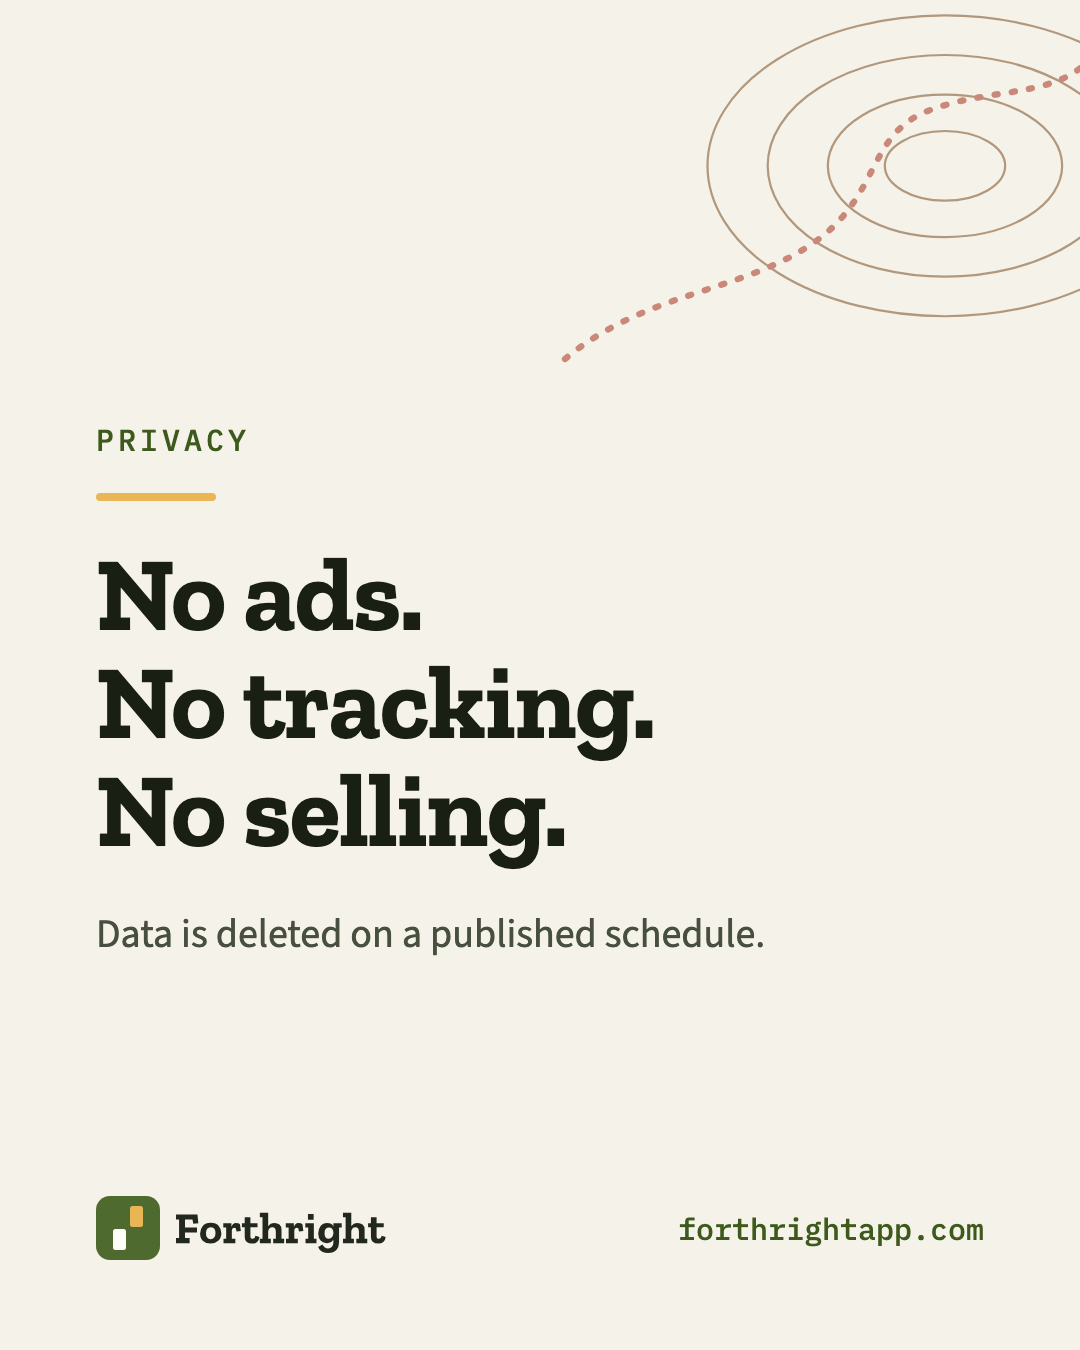
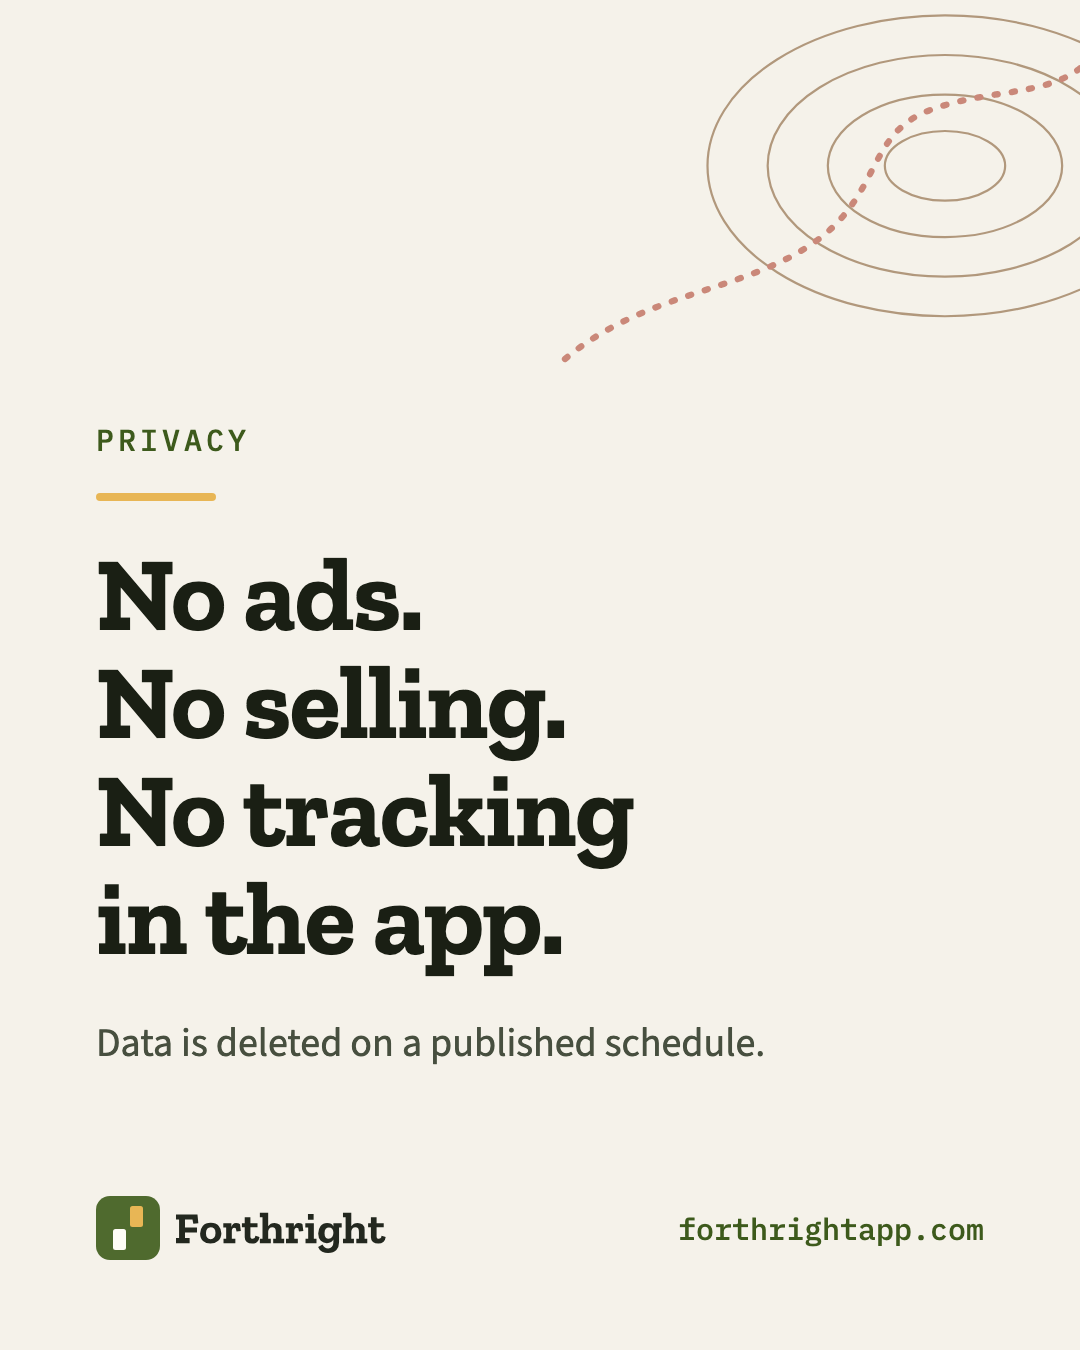
feat(forthright): Google Tag Manager on the public marketing pages only
GTM-NFFV3DQ5 loads on /, /features and /pilot for visitors who are not
signed in, on forthrightapp.com and www only (never staging, previews
or tests), and not when the browser sends Global Privacy Control. It
never runs in the app, on the privacy policy or on troop websites: the
app shell and public troop sites reload once without it if a visitor
arrives from a marketing page, since this is a single-page app.

The "no tracking" promises now say what is true: no ads, no selling,
nothing tracked in the app. The privacy policy names Google Tag
Manager and Google Analytics on the public pages and the Global Privacy
Control behavior. The Nov 12 Facebook post's image and caption match.

Changed region(s): [[0.0917, 0.4667, 0.7028, 0.8089]]

diff --git a/trailhead/app/src/lib/privacy.ts b/trailhead/app/src/lib/privacy.ts
@@ -53,9 +53,9 @@ export const PRIVACY_SECTIONS: PolicySection[] = [
       'Usage counts: how many AI drafts each person makes per day, so we can keep a daily limit.',
     ],
     notes: [
-      'We do not use analytics or advertising tools, and we do not set tracking cookies. So that Forthright works with a weak signal, such as at camp, your browser saves a copy of the troop information you can see, including Scout records and messages, on your device. Signing out removes that copy. Your browser also saves your sign-in, the email address you used for a sign-in link until you finish signing in, and a few preferences, such as whether you hid the Getting started list. On a shared computer, sign out when you are done.',
+      'Inside Forthright (everything after you sign in), on the privacy policy and on troop websites, we use no analytics or advertising tools and set no tracking cookies. Our public pages for visitors who are not signed in (the home page, the features page and the pilot sign-up page at forthrightapp.com) use Google Tag Manager to load Google Analytics, which sets cookies and receives your IP address and browser details to count visits and show how people find us. It is never loaded once you sign in, and opening the app from those pages starts a fresh page without it. So that Forthright works with a weak signal, such as at camp, your browser saves a copy of the troop information you can see, including Scout records and messages, on your device. Signing out removes that copy. Your browser also saves your sign-in, the email address you used for a sign-in link until you finish signing in, and a few preferences, such as whether you hid the Getting started list. On a shared computer, sign out when you are done.',
       'Google, which hosts Forthright, processes your IP address and basic browser information to deliver pages, keep you signed in and protect the service. Pages also load fonts from Google Fonts, which receives your IP address.',
-      'Because we do no tracking, we treat every visitor the same whether or not their browser sends a Do Not Track or Global Privacy Control signal.',
+      'If your browser sends a Global Privacy Control signal, our public pages do not load Google Tag Manager or Google Analytics. Nothing else depends on it, because nothing else is tracked.',
     ],
   },
   {
@@ -110,7 +110,7 @@ export const PRIVACY_SECTIONS: PolicySection[] = [
     id: 'providers',
     heading: 'Companies that help us run Forthright',
     items: [
-      "Google (Firebase and Google Cloud) hosts the app and stores its data in the United States, handles sign-in, stores photos and runs our server code. If you turn on notifications, Google Firebase Cloud Messaging delivers them and processes the device token and the notification text. If a troop connects its own domain, we send the domain name to Firebase Hosting so it can serve the site and issue a secure certificate; a troop's own domain shows only the public site and adds no tracking.",
+      "Google (Firebase and Google Cloud) hosts the app and stores its data in the United States, handles sign-in, stores photos and runs our server code. If you turn on notifications, Google Firebase Cloud Messaging delivers them and processes the device token and the notification text. If a troop connects its own domain, we send the domain name to Firebase Hosting so it can serve the site and issue a secure certificate; a troop's own domain shows only the public site and adds no tracking. On our public home, features and pilot pages only, Google Tag Manager and Google Analytics count visits for people who are not signed in (see Cookies above).",
       "Stripe processes card payments, if a troop turns them on, on the troop's own Stripe account. You enter your card details on Stripe's page, not in Forthright. Stripe receives your payment details and the email and billing details you give it, the amount, a general description such as \"Troop 101 activity fees\", and reference numbers that link the payment to the troop's records. It never receives your Scout's name. The money goes to the troop or its chartered organization, not to Forthright, and Forthright takes no fee. Stripe's privacy policy applies to what you give it.",
       "Resend delivers our emails. It receives the recipient's email address and the email itself: a Scout's first name, the merit badge, the troop name and links back to Forthright. It never receives birth dates, messages, photos or last names. For an emailed announcement, it receives the announcement, the sender's name and the troop name, and it is sent only to parents and other adults.",
       "Anthropic provides Claude, the AI behind \"Draft with AI\" and the website About us helper. To draft a plan we send a Scout's birth month and year, current rank, rank dates, merit badges already earned, the goal rank and target date, and the words typed into the request box. For the About us helper we send the troop's name, unit number and council and the leader's notes. In both, we try to remove the names of people on your troop roster from what you type, but nicknames or misspellings may get through, so please don't include names, health, family or school details. Health notes and Scout account information are never sent to Claude. Under Anthropic's commercial terms, this data is not used to train its models; Anthropic deletes it within 30 days unless it must keep it longer to enforce its usage policy or the law. AI drafts can be wrong: Forthright checks each plan against the advancement rules, and a person decides whether to use it.",

diff --git a/trailhead/app/src/lib/analytics.ts b/trailhead/app/src/lib/analytics.ts
@@ -1,0 +1,57 @@
+// Google Tag Manager, on the public marketing pages only (/, /features, /pilot) and only for visitors who are not
+// signed in. It never runs in the app, on the privacy policy or on troop websites: the app holds children's
+// information, and the privacy policy promises nothing in it is tracked. See the "Cookies" part of privacy.ts.
+import { useEffect } from 'react';
+import { useAuth } from './auth';
+
+export const GTM_ID = 'GTM-NFFV3DQ5';
+/** Only the live site: never staging, previews or tests, so they don't count as visits. */
+export const ANALYTICS_HOSTS = ['forthrightapp.com', 'www.forthrightapp.com'];
+const FLAG = '__forthrightTagManager';
+
+type Win = Window & { dataLayer?: unknown[]; [FLAG]?: boolean };
+
+/** Whether Tag Manager may load here and now. A Global Privacy Control signal turns it off. */
+export function mayLoad(o: { host: string; signedIn: boolean; gpc: boolean }): boolean {
+  return ANALYTICS_HOSTS.includes(o.host) && !o.signedIn && !o.gpc;
+}
+
+/** Add Google's Tag Manager snippet once. */
+export function loadTagManager(win: Win = window as Win, doc: Document = document): void {
+  if (win[FLAG]) {
+    return;
+  }
+  win[FLAG] = true;
+  win.dataLayer = win.dataLayer || [];
+  win.dataLayer.push({ 'gtm.start': Date.now(), event: 'gtm.js' });
+  const script = doc.createElement('script');
+  script.async = true;
+  script.src = `https://www.googletagmanager.com/gtm.js?id=${GTM_ID}`;
+  doc.head.appendChild(script);
+}
+
+/** True if Tag Manager is running in this page. */
+export function tagManagerLoaded(win: Win = window as Win): boolean {
+  return Boolean(win[FLAG]);
+}
+
+/** A marketing page: load Tag Manager for a signed-out visitor on the live site. */
+export function useMarketingAnalytics(): void {
+  const { user, ready } = useAuth();
+  useEffect(() => {
+    const gpc = Boolean((navigator as Navigator & { globalPrivacyControl?: boolean }).globalPrivacyControl);
+    if (ready && mayLoad({ host: window.location.hostname, signedIn: Boolean(user), gpc })) {
+      loadTagManager();
+    }
+  }, [ready, user]);
+}
+
+/** Any page that is not marketing: if Tag Manager came along from a marketing page (this is a single-page app),
+ * load the page afresh without it, so nothing in the app is ever tracked. */
+export function useNoAnalytics(): void {
+  useEffect(() => {
+    if (tagManagerLoaded()) {
+      window.location.reload();
+    }
+  }, []);
+}

diff --git a/trailhead/app/src/lib/__tests__/analytics.test.ts b/trailhead/app/src/lib/__tests__/analytics.test.ts
@@ -1,0 +1,38 @@
+import { describe, expect, it } from 'vitest';
+import { GTM_ID, loadTagManager, mayLoad, tagManagerLoaded } from '../analytics';
+
+describe('mayLoad', () => {
+  const visitor = { host: 'forthrightapp.com', signedIn: false, gpc: false };
+
+  it('loads only on the live site, for signed-out visitors without a privacy signal', () => {
+    expect(mayLoad(visitor)).toBe(true);
+    expect(mayLoad({ ...visitor, host: 'www.forthrightapp.com' })).toBe(true);
+  });
+
+  it('never loads for someone signed in, on staging or locally, or with Global Privacy Control', () => {
+    expect(mayLoad({ ...visitor, signedIn: true })).toBe(false);
+    expect(mayLoad({ ...visitor, host: 'scout-app-d2282.web.app' })).toBe(false);
+    expect(mayLoad({ ...visitor, host: 'localhost' })).toBe(false);
+    expect(mayLoad({ ...visitor, host: 'troop101.org' })).toBe(false); // a troop's own domain
+    expect(mayLoad({ ...visitor, gpc: true })).toBe(false);
+  });
+});
+
+describe('loadTagManager', () => {
+  it('adds the snippet once', () => {
+    const appended: { src: string; async: boolean }[] = [];
+    const doc = {
+      createElement: () => ({ src: '', async: false }),
+      head: { appendChild: (s: { src: string; async: boolean }) => appended.push(s) },
+    } as unknown as Document;
+    const win = {} as Window & { dataLayer?: unknown[] };
+    expect(tagManagerLoaded(win)).toBe(false);
+    loadTagManager(win, doc);
+    loadTagManager(win, doc);
+    expect(appended).toHaveLength(1);
+    expect(appended[0].src).toBe(`https://www.googletagmanager.com/gtm.js?id=${GTM_ID}`);
+    expect(appended[0].async).toBe(true);
+    expect(win.dataLayer?.[0]).toMatchObject({ event: 'gtm.js' });
+    expect(tagManagerLoaded(win)).toBe(true);
+  });
+});

diff --git a/trailhead/app/src/pages/PublicSite.tsx b/trailhead/app/src/pages/PublicSite.tsx
@@ -9,6 +9,7 @@ import { db } from '../lib/firebase';
 import { useDoc } from '../lib/hooks';
 import { paragraphs } from '../lib/siteTheme';
 import type { PublicSite as Site } from '../lib/types';
+import { useNoAnalytics } from '../lib/analytics';
 
 /** Sets the tab title and search description while the page is open. */
 function usePageMeta(title: string, description: string) {
@@ -69,6 +70,7 @@ function Missing() {
 /** A troop's public site. On Forthright's address the slug and page come from the URL; on a troop's own domain
  * the slug is passed in and the URL's first part is the page. */
 export function PublicSite({ slug: fixedSlug, page: fixedPage }: { slug?: string; page?: string }) {
+  useNoAnalytics(); // troop websites show Scouts' names and photos: never tracked
   const params = useParams();
   const slug = fixedSlug ?? params.slug ?? '';
   const page = fixedPage ?? params.page;

diff --git a/trailhead/app/src/pages/Landing.tsx b/trailhead/app/src/pages/Landing.tsx
@@ -5,11 +5,13 @@ import { PilotSection } from '../components/landing/PilotSection';
 import { Faq, LandingFooter, Safety, WhoItHelps } from '../components/landing/Sections';
 import { PRIVACY_EMAIL } from '../lib/privacy';
 import '../landing.css';
+import { useMarketingAnalytics } from '../lib/analytics';
 
 const TITLE = 'Forthright: advancement planning for Scouts BSA troops';
 
 /** The public page: at `/` for signed-out visitors, and at `/pilot` for everyone, opened at the pilot form. */
 export function Landing({ section }: { section?: string }) {
+  useMarketingAnalytics();
   const { hash, key } = useLocation();
   const target = section ?? hash.slice(1);
   // The router doesn't scroll to anchors itself. `key` changes on every click, so pressing "Join the pilot" again

diff --git a/trailhead/app/src/pages/Features.tsx b/trailhead/app/src/pages/Features.tsx
@@ -5,6 +5,7 @@ import { LandingFooter } from '../components/landing/Sections';
 import { SiteBar } from '../components/landing/SiteBar';
 import { PRIVACY_EMAIL } from '../lib/privacy';
 import '../landing.css';
+import { useMarketingAnalytics } from '../lib/analytics';
 
 const TITLE = 'Features: Forthright for Scouts BSA troops';
 const CANONICAL = 'https://forthrightapp.com/features';
@@ -52,6 +53,7 @@ function Category({ category }: { category: FeatureCategory }) {
 /** The public features page at `/features`: every feature, grouped by category. */
 export function Features() {
   usePageHead();
+  useMarketingAnalytics();
   return (
     <div className="landing">
       <header className="l-hero l-features-hero">

diff --git a/trailhead/app/src/components/Layout.tsx b/trailhead/app/src/components/Layout.tsx
@@ -9,6 +9,7 @@ import { NAV_TIPS } from '../lib/navTips';
 import { TroopProvider, useTroop } from '../lib/troop';
 import { useUnreadBadge } from '../lib/useUnreadBadge';
 import { ConsentGate } from './ConsentGate';
+import { useNoAnalytics } from '../lib/analytics';
 
 function TroopNav() {
   const { troopId, troop, has, isLeader, canManageBadges } = useTroop();
@@ -63,6 +64,7 @@ function TroopOutlet() {
 }
 
 function Shell({ troopNav, children }: { troopNav: boolean; children?: ReactNode }) {
+  useNoAnalytics(); // the app is never tracked; arriving from a marketing page reloads without Tag Manager
   const { user } = useAuth();
   const navigate = useNavigate();
   return (

diff --git a/trailhead/app/src/components/landing/featuresTroop.ts b/trailhead/app/src/components/landing/featuresTroop.ts
@@ -121,8 +121,8 @@ export const TROOP_CATEGORIES: FeatureCategory[] = [
         text: 'A parent acts for a younger Scout. Scouts 13 and older can have their own login.',
       },
       {
-        title: 'No ads, no tracking, no selling',
-        text: 'Forthright shows no ads, uses no tracking and never sells data. Data is deleted on a published schedule.',
+        title: 'No ads, no selling, nothing tracked in the app',
+        text: 'Forthright shows no ads and never sells data. Nothing you do after signing in is tracked, and data is deleted on a published schedule.',
       },
       {
         title: 'Works with a weak signal',

diff --git a/trailhead/app/src/components/landing/content.ts b/trailhead/app/src/components/landing/content.ts
@@ -37,8 +37,8 @@ export const SAFETY: { title: string; text: string }[] = [
     text: 'Photos of Scouts go on a troop website only with media consent. Location data is removed from every photo.',
   },
   {
-    title: 'No ads, no tracking, no selling',
-    text: 'Forthright shows no ads, has no tracking and never sells data. Data is deleted on a published schedule.',
+    title: 'No ads, no selling, nothing tracked in the app',
+    text: 'Forthright shows no ads and never sells data. Nothing you do after signing in is tracked. Data is deleted on a published schedule.',
   },
 ];
 

diff --git a/trailhead/marketing/facebook/posts/SCHEDULE.md b/trailhead/marketing/facebook/posts/SCHEDULE.md
@@ -15,7 +15,7 @@ page doesn't read as official.
 | Wed Nov 4   | `04-youth-protection.png` | Built around Youth Protection. Every conversation with a Scout includes an adult with current training plus a parent or second adult, and Scouts can't message each other. Scouts under 13 never get their own login; a parent acts for them. #ScoutsBSA                                                       |
 | Thu Nov 5   | `05-scoutbook.png`        | Forthright doesn't replace Scoutbook, which stays the official record. Your advancement chair gets a report of everything signed since the last one, grouped by Scout and ready to enter in Scoutbook. #Scoutmaster                                                                                              |
 | Tue Nov 10  | `06-troop-websites.png`   | Every troop on Forthright gets a simple public website with a "Join us" form, so new families can find you and ask to visit. Photos of Scouts appear only with media consent, and location data is removed from every photo. #ScoutsBSA                                                                         |
-| Thu Nov 12  | `07-privacy.png`          | No ads, no tracking, and we never sell data. Forthright deletes data on a published schedule, and anyone can delete their own account. The full policy: forthrightapp.com/privacy                                                                                                                                 |
+| Thu Nov 12  | `07-privacy.png`          | No ads, and we never sell data. Nothing you do after signing in to Forthright is tracked, and data is deleted on a published schedule. Anyone can delete their own account. The full policy: forthrightapp.com/privacy                                                                                                                                 |
 | Tue Nov 17  | `08-pilot.png`            | We're looking for a few more pilot troops. Forthright is free during the pilot, then $20 a month or $199 a year per troop. We set up your troop with you, you try it with your leaders and families, and you tell us what to change. Ask to join: forthrightapp.com/pilot #Scoutmaster #ScoutsBSA               |
 
 Nov 3 (US Election Day) was skipped on purpose. If Facebook asks to add a "Send Message" button while scheduling, the post isn't saved until that prompt is answered.
